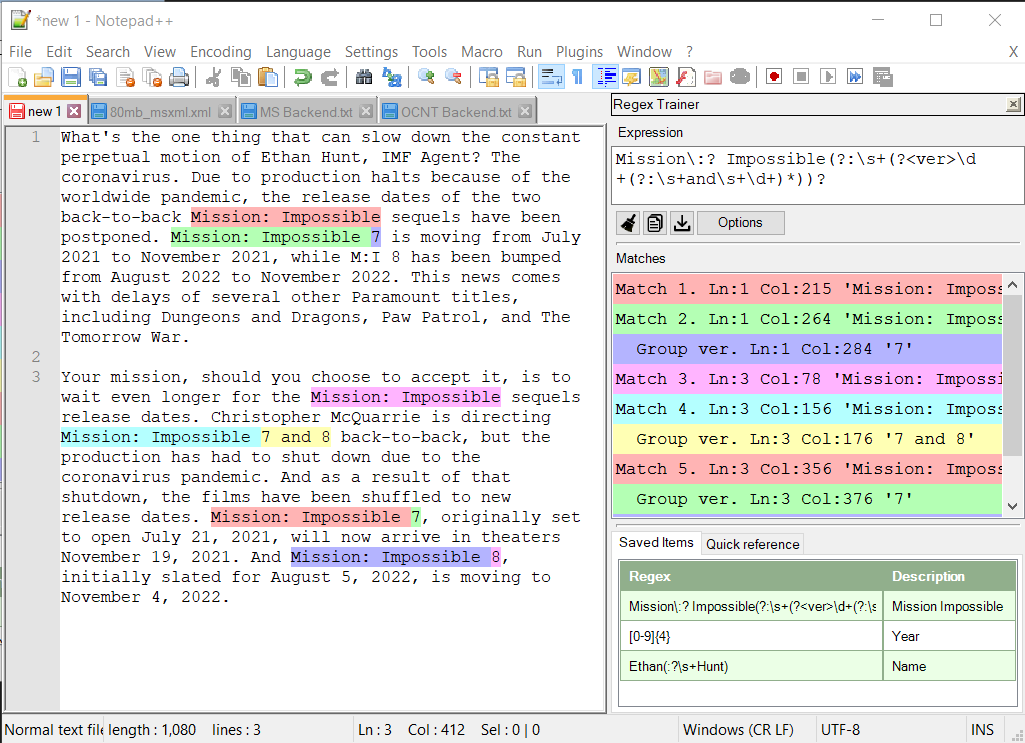
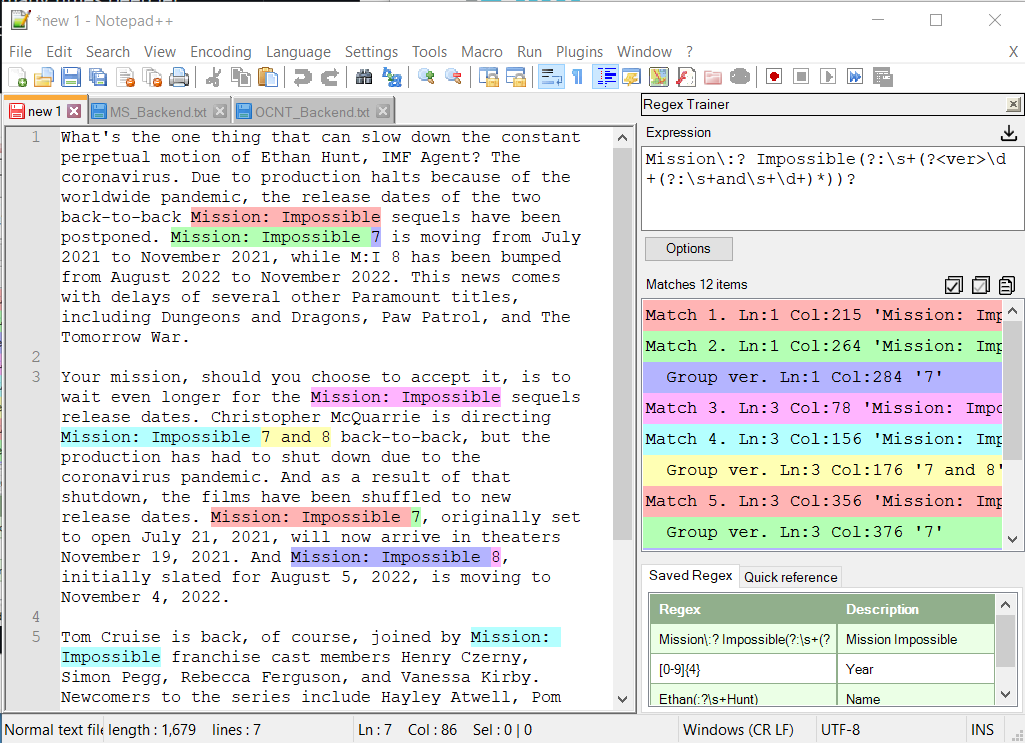
Added ver 1.2.0

diff --git a/README.md b/README.md
@@ -1,13 +1,15 @@
 # RegexTrainer
 Regex Trainer - plugin for Notepad++ using c# net framework 4
 
+**ver 1.0.0**
 My first plugin (ver 1.0.0 2 July 2020) for Notepad++ after many times been let down by online regex websites (it just won't show captured groups for a complex regular expression)
 
 ![Screenshot 1](https://github.com/ahmoylaw/RegexTrainer-Descriptions/blob/master/screenshot1.png)
 
 ![Screenshot 2](https://github.com/ahmoylaw/RegexTrainer-Descriptions/blob/master/screenshot2.png)
 
-ver 1.1.0 (22 September 2023)
+
+**ver 1.1.0** (22 September 2023)
 - user can save regex
 - enhanced display grid with a built-in splitter
 - remove toolbar icon
@@ -16,3 +18,13 @@ ver 1.1.0 (22 September 2023)
 
 ![Screenshot 4](https://github.com/ahmoylaw/RegexTrainer-Descriptions/blob/master/screenshot4.png)
 
+
+**ver 1.2.0** (27 September 2023)
+- enhanced huge file handling (UI will not take too long time to update result)
+- removed "Copy Regex" and "Clear Regex" buttons for Expression to reduce accidentally clear expression
+- added 3 buttons "Mark All", "Clear All Marks" and "Copy Mark Text To Clipboard" for Matches
+- Matches will display progress and result on how many matches found
+- added Matches popup menu for copy specific matches
+- Changed the label for "Saved Items" to "Saved Regex"
+
+![Screenshot 5](https://github.com/ahmoylaw/RegexTrainer-Descriptions/blob/master/screenshot5.png)
